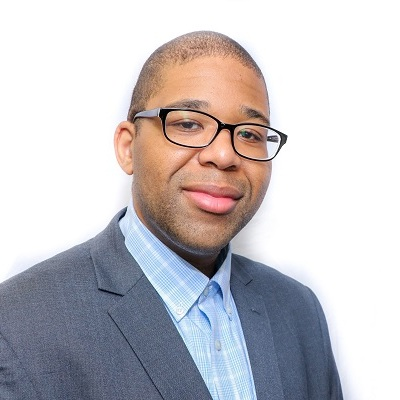
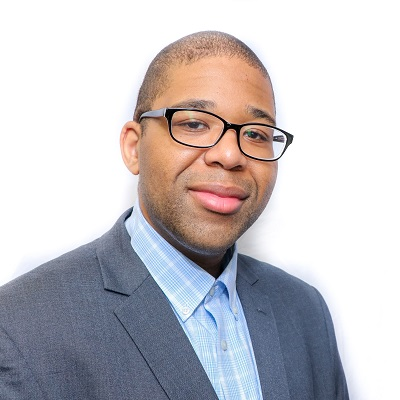
Add Circular Lin Picture

diff --git a/node-website/src/components/ImageCard2.js b/node-website/src/components/ImageCard2.js
@@ -1,6 +1,6 @@
 import React, { Component } from 'react';
 import { Grid, Image, Button, Segment} from 'semantic-ui-react';
-import selfPic from "../images/homepage-img/SelfPicBlue_cr.jpg"
+import selfPic from "../images/homepage-img/SelfPicLin_cr.jpg"
 import cvPdf from '../images/homepage-img/JSaddler_CV.pdf';
 import resumePdf from '../images/homepage-img/JSaddler_Resume.pdf';
 import "../css/ImageCard.css";
@@ -30,9 +30,9 @@ export class ImageCard2 extends Component {
               </Grid>
               <Grid columns={1}>
                 <Grid.Column className='jobm'>
-                  <h4 style={{marginTop: "-10px"}}>
-                    I'm on the Job Market
-                  </h4>
+                  <h5 style={{marginTop: "-10px"}}>
+                    I'm on the job market
+                  </h5>
                 </Grid.Column>
               </Grid>
               <Grid columns={2} textAlign='center'>

diff --git a/node-website/src/App.js b/node-website/src/App.js
@@ -48,7 +48,7 @@ class App extends Component {
                     <Segment className="b"><Link to="/">Home</Link></Segment>
                   </Grid.Column>
                   <Grid.Column>
-                    <Segment className="c1"><Link to="/">Data</Link></Segment>
+                    {/* <Segment className="c1"><Link to="/">Data</Link></Segment> */}
                   </Grid.Column>
                   <Grid.Column></Grid.Column>
                   <Grid.Column textAlign="center">

diff --git a/node-website/src/components/NameplateSplash2.js b/node-website/src/components/NameplateSplash2.js
@@ -40,7 +40,8 @@ export class NameplateSplash2 extends Component {
                   />
                 </div> */}
                 <div className="splash-txt s1">
-                    Determined and focused on developer behavior
+                    Focused on developer comprehension <br/>
+                    and behavior...
                 </div>
                 <div className="splash-pic middle">
                   <img

diff --git a/node-website/src/css/ImageCard.css b/node-website/src/css/ImageCard.css
@@ -13,10 +13,3 @@
     margin-left: 20%;
     width: 60%;
 }
-
-.cv-btn{
-    
-}
-.resume-btn { 
-
-}
